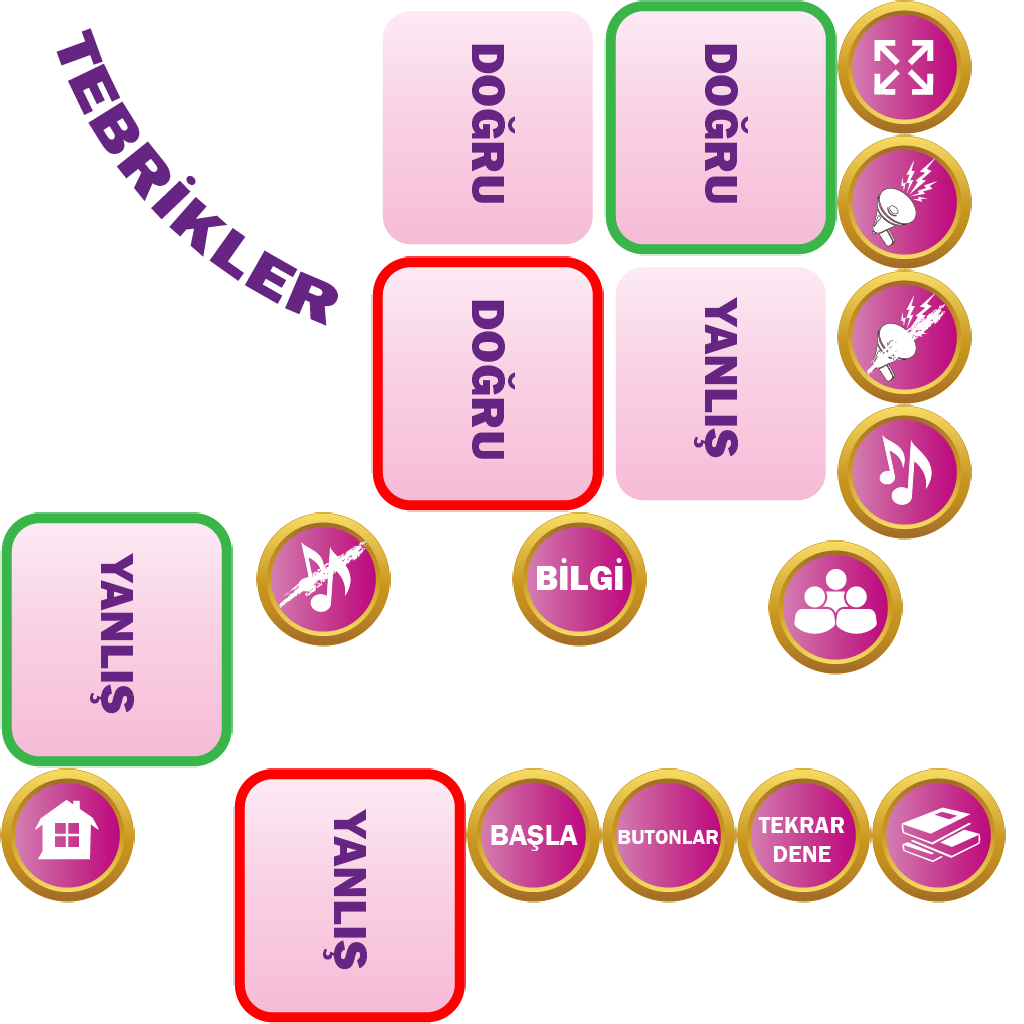
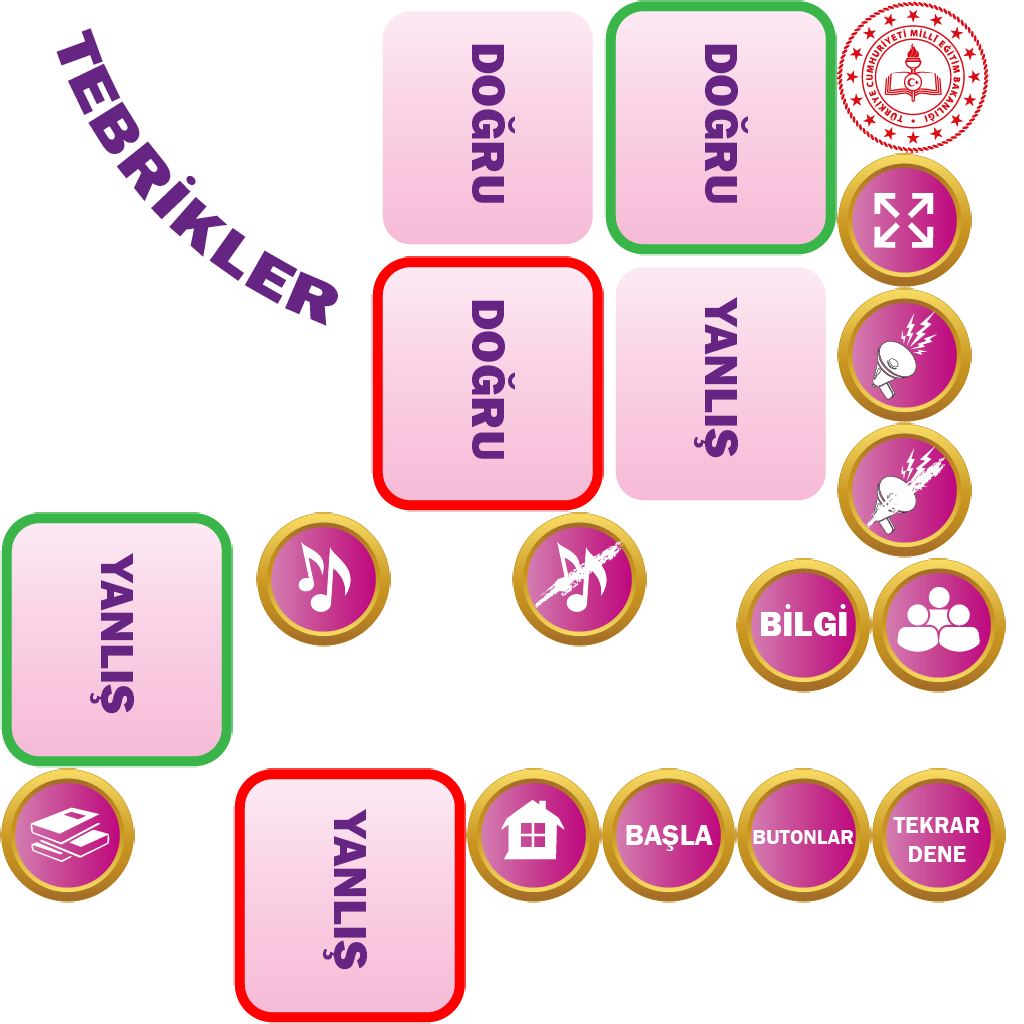
25temuz

diff --git a/scripts/c3runtime.js b/scripts/c3runtime.js
@@ -4633,6 +4633,7 @@ self.C3_JsPropNameTable = [
 	{dogrutext: 0},
 	{yanlistext: 0},
 	{Sprite: 0},
+	{meb: 0},
 	{butonlar: 0},
 	{randomsoru: 0},
 	{dogru_sayisi: 0},
@@ -4670,6 +4671,7 @@ self.InstanceType = {
 	dogrutext: class extends self.ITextInstance {},
 	yanlistext: class extends self.ITextInstance {},
 	Sprite: class extends self.ISpriteInstance {},
+	meb: class extends self.ISpriteInstance {},
 	butonlar: class extends self.ISpriteInstance {}
 }
 }
